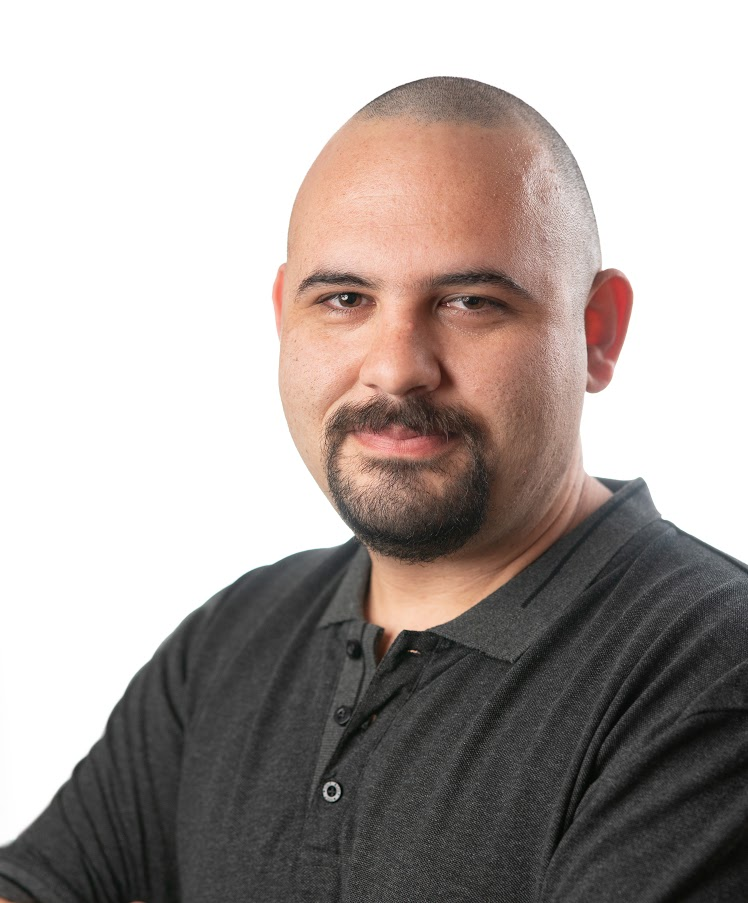
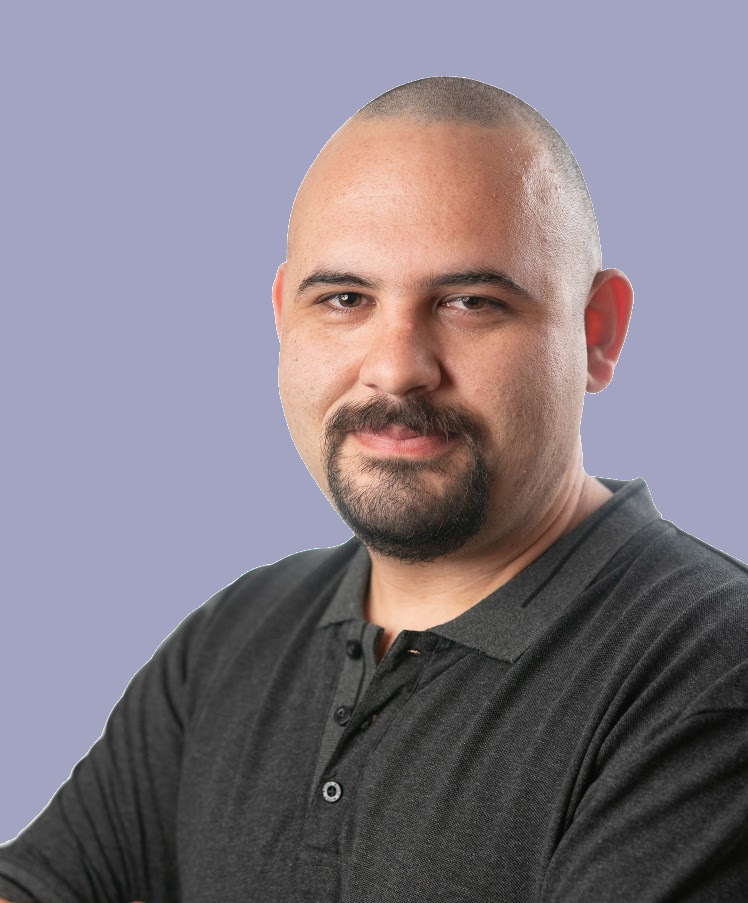
new me pic

diff --git a/index.html b/index.html
@@ -35,7 +35,7 @@ div#main {
 <div id="main">
 <table width="100%"  border="0">
   <tr>
-    <td width="19%"><img src="me.jpg" alt="Me! " name="Me" width="271" height="250"></td>
+    <td width="19%"><img src="me.jpg" alt="Me! " name="Me" height="250"></td>
     <td width="81%"><h1>Shaull Almagor's Homepage </h1>
       <p>&nbsp;</p>
       <p>&nbsp;</p>
